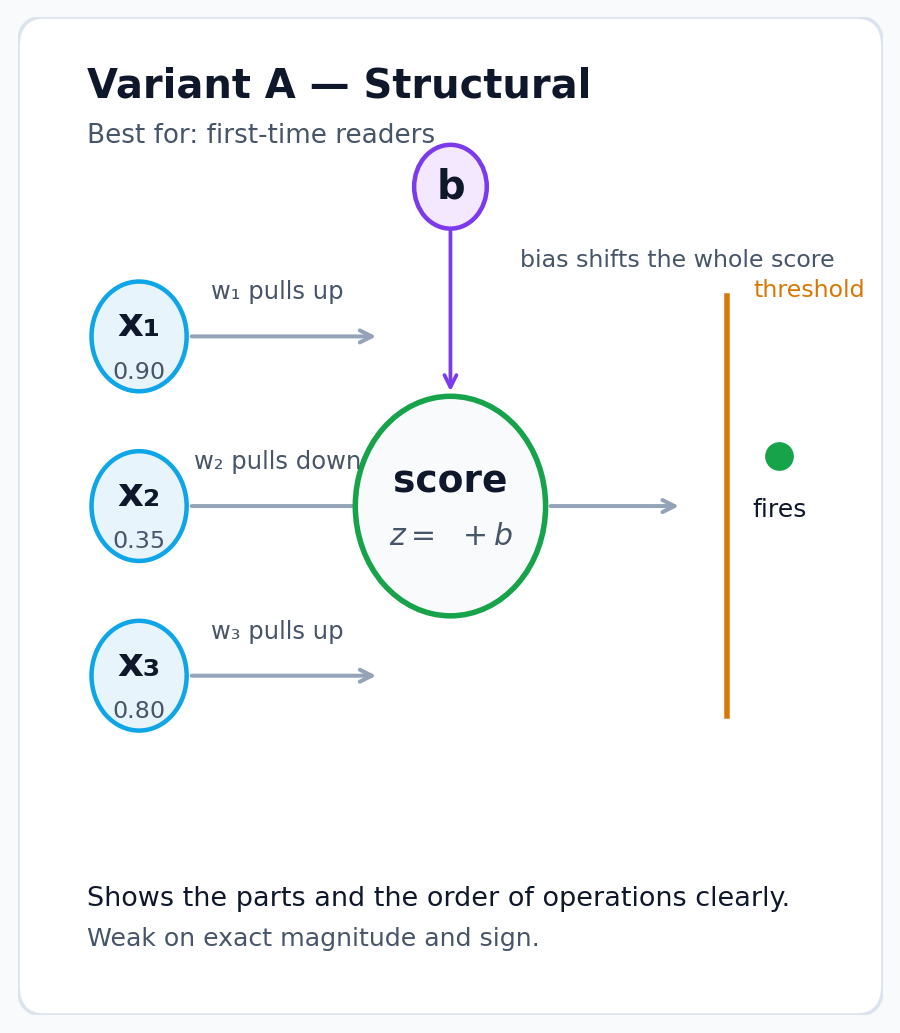
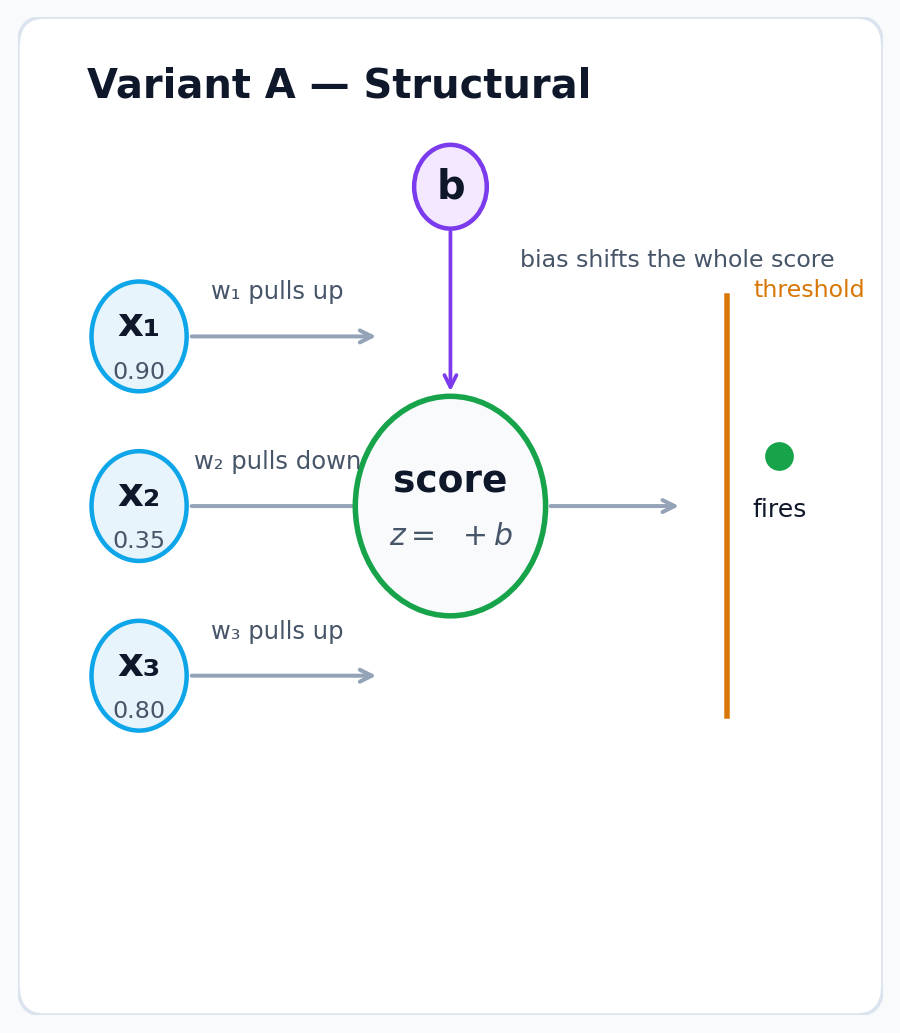
Strip review copy from weights bias carousel

Changed region(s): [[0.0933, 0.8364, 0.5911, 0.9293], [0.0933, 0.1239, 0.4978, 0.1549], [0.6222, 0.8674, 0.8711, 0.8984]]

diff --git a/scripts/generate_weights_bias_variant_board.py b/scripts/generate_weights_bias_variant_board.py
@@ -56,7 +56,6 @@ def add_card(ax):
 def variant_a(ax):
     add_card(ax)
     ax.text(0.08, 0.92, 'Variant A — Structural', fontsize=16, fontweight='bold')
-    ax.text(0.08, 0.875, 'Best for: first-time readers', fontsize=10.5, color=COLORS['muted'])
 
     inputs = [
         (0.14, 0.68, 'x₁', '0.90'),
@@ -87,14 +86,11 @@ def variant_a(ax):
     ax.text(0.85, 0.72, 'threshold', fontsize=9.5, color=COLORS['amber'])
     ax.scatter([0.88], [0.56], s=110, color=COLORS['green'])
     ax.text(0.88, 0.50, 'fires', ha='center', fontsize=10)
-    ax.text(0.08, 0.11, 'Shows the parts and the order of operations clearly.', fontsize=10.8)
-    ax.text(0.08, 0.07, 'Weak on exact magnitude and sign.', fontsize=10.1, color=COLORS['muted'])
 
 
 def variant_b(ax):
     add_card(ax)
     ax.text(0.08, 0.92, 'Variant B — Quantitative', fontsize=16, fontweight='bold')
-    ax.text(0.08, 0.875, 'Best for: readers who want the score to feel concrete', fontsize=10.5, color=COLORS['muted'])
 
     features = ['links', 'sender rep', 'urgent tone', 'known contact', 'bias']
     values = np.array([1.44, -0.42, 0.80, -0.08, -0.55])
@@ -127,14 +123,11 @@ def variant_b(ax):
     marker_y = 0.18 + prob * 0.18
     ax.scatter([marker_x], [marker_y], s=45, color=COLORS['amber'])
     ax.text(0.74, 0.39, 'threshold shifts are visible here too', fontsize=9.5, color=COLORS['muted'])
-    ax.text(0.08, 0.11, 'Shows sign, magnitude, and cumulative pull.', fontsize=10.8)
-    ax.text(0.08, 0.07, 'Weak on the “same weights, moved boundary” intuition.', fontsize=10.1, color=COLORS['muted'])
 
 
 def variant_c(ax):
     add_card(ax)
     ax.text(0.08, 0.92, 'Variant C — Dynamic', fontsize=16, fontweight='bold')
-    ax.text(0.08, 0.875, 'Best for: people confused about what bias changes', fontsize=10.5, color=COLORS['muted'])
 
     frames = [(-1.2, 0.20), (0.0, 0.50), (1.2, 0.80)]
     for idx, (bias, x0) in enumerate(frames):
@@ -149,9 +142,6 @@ def variant_c(ax):
         ax.plot(xs, ys, color=COLORS['ink'], linewidth=2.1)
         ax.text(left + 0.02, top + 0.02, f'b = {bias:+.1f}', fontsize=9.5)
 
-    ax.text(0.08, 0.18, 'Three snapshots of the same rule with a different bias.', fontsize=10.8)
-    ax.text(0.08, 0.13, 'The angle stays fixed. The boundary slides in parallel.', fontsize=10.8)
-    ax.text(0.08, 0.07, 'Weak on the actual score buildup unless paired with another panel.', fontsize=10.1, color=COLORS['muted'])
 
 
 def save_single(draw_fn, filename):

diff --git a/weights-bias-variants.md b/weights-bias-variants.md
@@ -46,16 +46,10 @@ comments: false
   height: auto;
   border-radius: 0.75rem;
 }
-.variant-carousel .variant-meta {
-  margin-top: 1rem;
-}
-.variant-carousel .variant-meta p {
-  margin: 0.35rem 0;
-}
 .variant-carousel .variant-controls {
   display: flex;
   gap: 0.75rem;
-  justify-content: space-between;
+  justify-content: flex-start;
   align-items: center;
   margin-top: 1rem;
 }
@@ -71,13 +65,9 @@ comments: false
   cursor: pointer;
   font-weight: 600;
 }
-.variant-carousel .variant-status {
-  color: #475569;
-  font-size: 0.95rem;
-}
 </style>
 
-This is a temporary working page for choosing the clearest figure direction before replacing the article graphic.
+Flip through the variants and tell me what reads best and what feels off.
 
 <div class="variant-carousel" data-carousel>
   <div class="variant-nav" role="tablist" aria-label="Weights and bias figure variants">
@@ -89,29 +79,14 @@ This is a temporary working page for choosing the clearest figure direction befo
   <div class="variant-frame">
     <div class="variant-slide active" data-slide="0">
       <img src="/assets/img/posts/neural-network-components/weights-bias-variant-a.png" alt="Variant A structural weights and bias figure." loading="lazy">
-      <div class="variant-meta">
-        <p><strong>Best for:</strong> first-time readers who need the parts named plainly.</p>
-        <p><strong>Shows clearly:</strong> what the pieces are and the order of operations.</p>
-        <p><strong>Still weak on:</strong> exact magnitude and sign.</p>
-      </div>
     </div>
 
     <div class="variant-slide" data-slide="1">
       <img src="/assets/img/posts/neural-network-components/weights-bias-variant-b.png" alt="Variant B quantitative weights and bias figure." loading="lazy">
-      <div class="variant-meta">
-        <p><strong>Best for:</strong> readers who want to see the score get built numerically.</p>
-        <p><strong>Shows clearly:</strong> sign, magnitude, contribution, and total score.</p>
-        <p><strong>Still weak on:</strong> the fixed-weights / moved-threshold intuition by itself.</p>
-      </div>
     </div>
 
     <div class="variant-slide" data-slide="2">
       <img src="/assets/img/posts/neural-network-components/weights-bias-variant-c.png" alt="Variant C dynamic weights and bias figure." loading="lazy">
-      <div class="variant-meta">
-        <p><strong>Best for:</strong> people confused about what bias changes.</p>
-        <p><strong>Shows clearly:</strong> same weights, sliding threshold, and parallel boundary motion.</p>
-        <p><strong>Still weak on:</strong> the actual score buildup unless paired with another panel.</p>
-      </div>
     </div>
 
     <div class="variant-controls">
@@ -119,40 +94,6 @@ This is a temporary working page for choosing the clearest figure direction befo
         <button type="button" data-action="prev">← Prev</button>
         <button type="button" data-action="next">Next →</button>
       </div>
-      <div class="variant-status" data-status>Showing A — Structural</div>
     </div>
   </div>
 </div>
-
-My default recommendation is still a <strong>hybrid of B + C</strong>:
-
-- use <strong>B</strong> as the main static article image
-- keep <strong>C</strong> as the companion animation
-- borrow <strong>A</strong>'s plain labeling discipline
-
-<script>
-(() => {
-  const root = document.querySelector('[data-carousel]');
-  if (!root) return;
-
-  const slides = Array.from(root.querySelectorAll('[data-slide]'));
-  const tabs = Array.from(root.querySelectorAll('[data-target]'));
-  const status = root.querySelector('[data-status]');
-  const labels = ['A — Structural', 'B — Quantitative', 'C — Dynamic'];
-  let current = 0;
-
-  function render(index) {
-    current = (index + slides.length) % slides.length;
-    slides.forEach((slide, i) => slide.classList.toggle('active', i === current));
-    tabs.forEach((tab, i) => tab.classList.toggle('active', i === current));
-    status.textContent = `Showing ${labels[current]}`;
-  }
-
-  tabs.forEach((tab, index) => {
-    tab.addEventListener('click', () => render(index));
-  });
-
-  root.querySelector('[data-action="prev"]').addEventListener('click', () => render(current - 1));
-  root.querySelector('[data-action="next"]').addEventListener('click', () => render(current + 1));
-})();
-</script>
